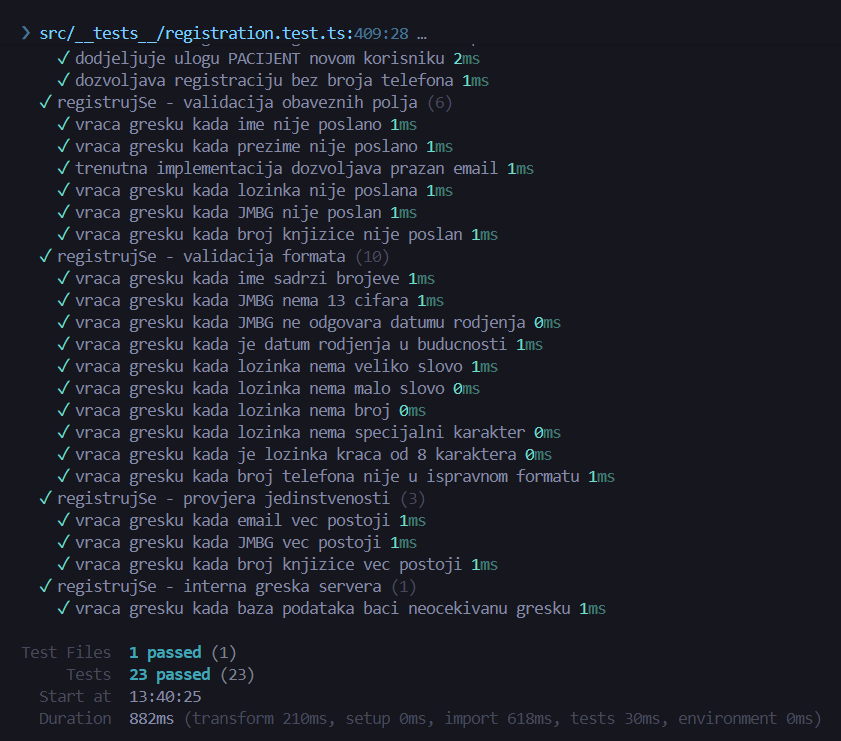
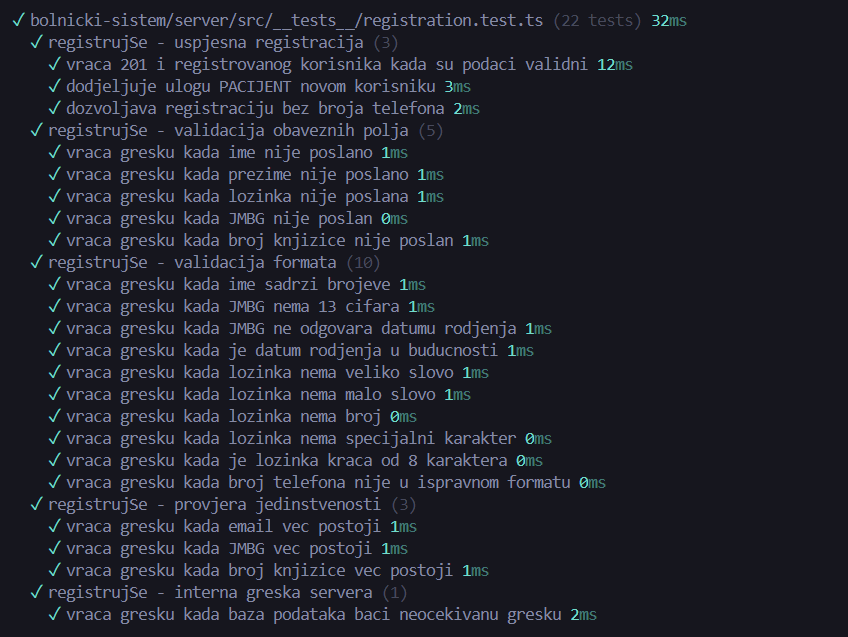
prepravka testa

Changed region(s): [[0.0, 0.0, 0.9893, 0.9843], [0.7729, 0.0, 0.8038, 0.0597], [0.7111, 0.0298, 0.742, 0.0597]]

diff --git a/PROJEKAT/bolnicki-sistem/server/src/__tests__/registration.test.ts b/PROJEKAT/bolnicki-sistem/server/src/__tests__/registration.test.ts
@@ -151,18 +151,6 @@ describe("registrujSe - validacija obaveznih polja", () => {
         expect(res.status).not.toHaveBeenCalledWith(201);
     });
 
-    it("trenutna implementacija dozvoljava prazan email", async () => {
-        const { req, res, next } = napraviReqRes({
-            ...validniPodaci,
-            email: "",
-        });
-
-        await registrujSe(req, res, next);
-
-        expect(res.status).toHaveBeenCalledWith(201);
-        expect(next).not.toHaveBeenCalled();
-    });
-
     it("vraca gresku kada lozinka nije poslana", async () => {
         const { req, res, next } = napraviReqRes({
             ...validniPodaci,
